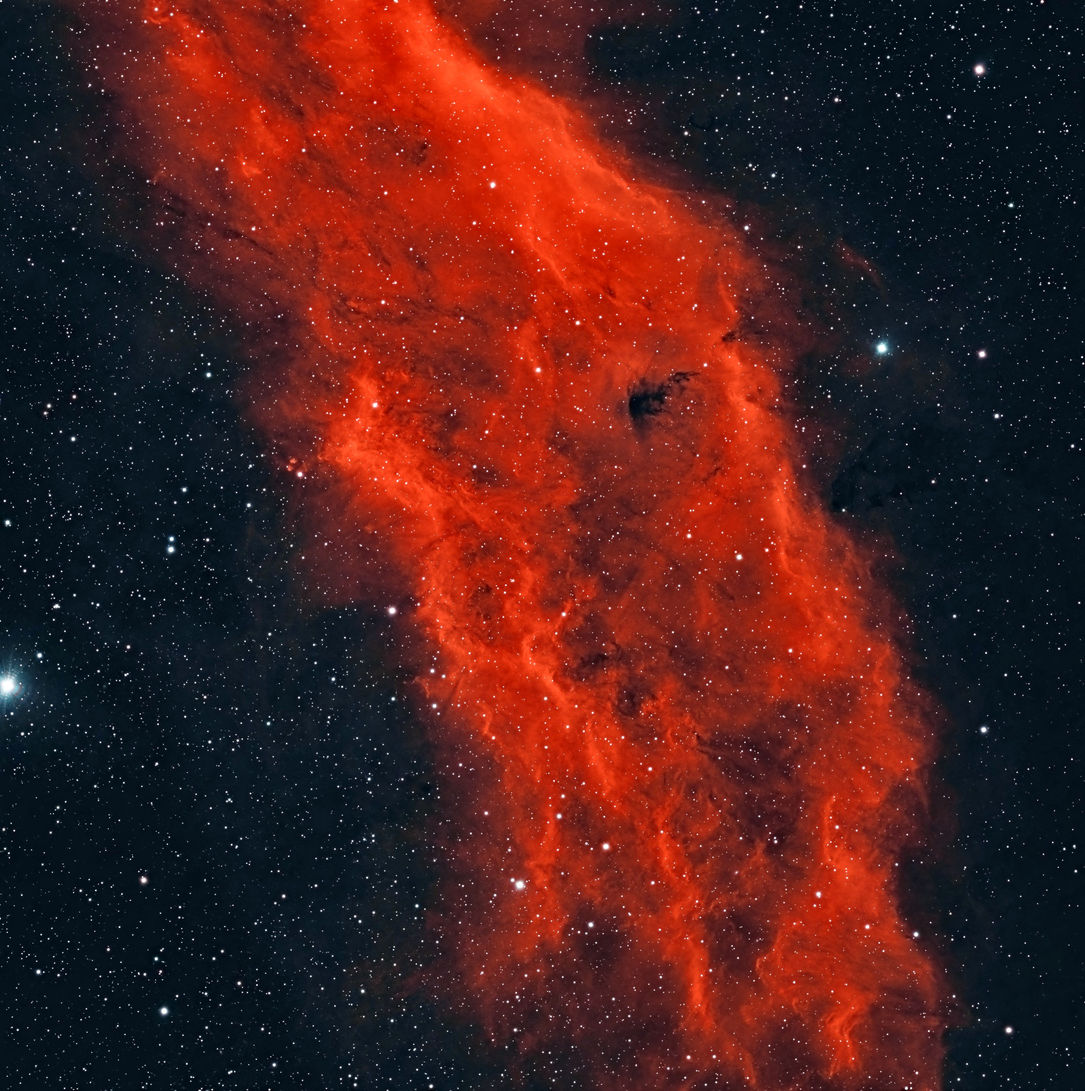
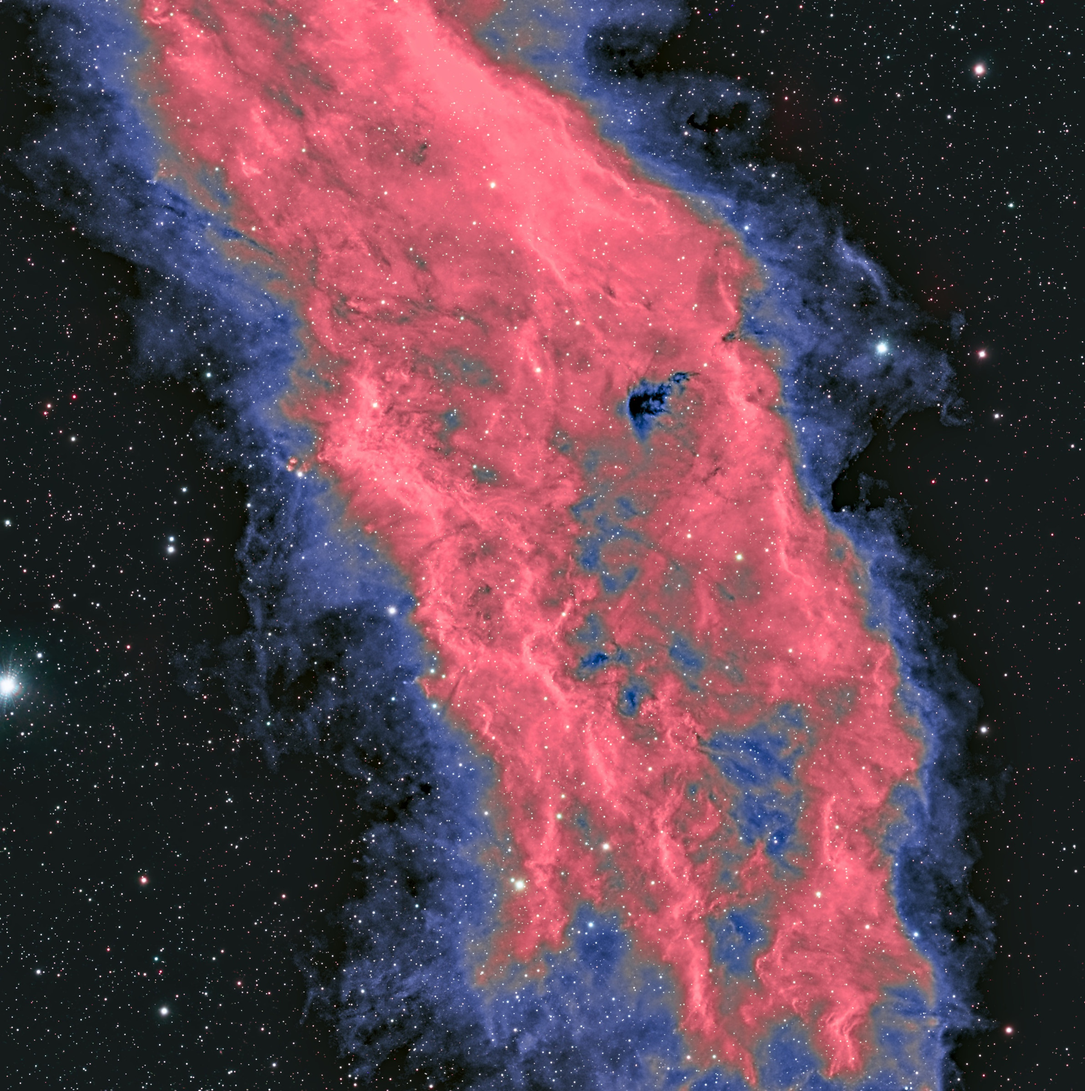
California: user's Pixelmator finish of the false-colour version

diff --git a/california-2024/index.html b/california-2024/index.html
@@ -7,7 +7,7 @@
 <meta name="description" content="A wall of hydrogen glowing red, ionized by the hot runaway star Xi Persei (Menkib) nearby. The whole nebula stretches about 2.5° across the sky, five full Moons end to end, so this frame shows its middle.">
 <meta property="og:title" content="NGC 1499 · California Nebula · Night Sky">
 <meta property="og:description" content="A wall of hydrogen glowing red, ionized by the hot runaway star Xi Persei (Menkib) nearby. The whole nebula stretches about 2.5° across the sky, five full Moons end to end, so this frame shows its middle.">
-<meta property="og:image" content="https://etotman.github.io/astro-gallery/img/california-2024/display.jpg?v=3902d42e"><meta name="twitter:card" content="summary_large_image">
+<meta property="og:image" content="https://etotman.github.io/astro-gallery/img/california-2024/display.jpg?v=59ebced0"><meta name="twitter:card" content="summary_large_image">
 <meta name="theme-color" content="#07080b">
 <link rel="icon" href="../assets/icon.svg" type="image/svg+xml">
 <link rel="stylesheet" href="../assets/style.css?v=bd09f262">
@@ -18,8 +18,8 @@
 <div class="layout">
 <div class="col">
 <figure class="hero">
-  <button class="zoom" type="button" data-full="../img/california-2024/full.jpg?v=047be802" data-w="2752" data-h="2769" aria-label="Open full resolution">
-    <img src="../img/california-2024/display.jpg?v=3902d42e" width="2385" height="2400" alt="NGC 1499 · California Nebula">
+  <button class="zoom" type="button" data-full="../img/california-2024/full.jpg?v=c038bf90" data-w="2752" data-h="2769" aria-label="Open full resolution">
+    <img src="../img/california-2024/display.jpg?v=59ebced0" width="2385" height="2400" alt="NGC 1499 · California Nebula">
   </button>
   <figcaption>Click the image for full resolution · 2752 × 2769 px</figcaption>
 </figure>
@@ -41,8 +41,8 @@
 </tr></tbody>
   </table></div>
 </section>
-  <section class="block"><h2>Processing</h2><p>Stacked 2026-11 from the raw ASIAIR frames: calibrated with a master dark and flat, debayered, every sub plate-solved (ASTAP) for registration, 3-sigma clipped integration; then GraXpert, colour calibration, BlurXTerminator, NoiseXTerminator, stretch, StarXTerminator, saturation and local contrast, stars screened back. Finished with the colour of the Flame + Horsehead edit: cooler sky, lifted midtones, more clarity and saturation.</p></section>
-  <p class="dl"><a href="../img/california-2024/full.jpg?v=047be802" download="california-2024.jpg">Download full resolution (1.6 MB)</a></p>
+  <section class="block"><h2>Processing</h2><p>Stacked 2026-11 from the raw ASIAIR frames: calibrated with a master dark and flat, debayered, every sub plate-solved (ASTAP) for registration, 3-sigma clipped integration; then GraXpert, colour calibration, BlurXTerminator, NoiseXTerminator, stretch, StarXTerminator, saturation and local contrast, stars screened back. Artistic false colour: the hydrogen light is coloured by brightness (bright filaments rose, the fainter outer glow blue), then finished by hand in Pixelmator Pro. The blue is not oxygen; this nebula glows almost entirely in hydrogen.</p></section>
+  <p class="dl"><a href="../img/california-2024/full.jpg?v=c038bf90" download="california-2024.jpg">Download full resolution (1.8 MB)</a></p>
 </main>
 </div>
 <aside class="glance">

diff --git a/index.html b/index.html
@@ -200,7 +200,7 @@
   <span class="cap"><strong>Sh2-142 · Wizard Nebula</strong><em>8.8 h · RASA8</em></span>
 </a>
 <a class="tile" href="california-2024/" style="--r:0.9933;background:#1c1c1c">
-  <img src="img/california-2024/thumb.jpg?v=ba21c22a" width="894" height="900" alt="NGC 1499 · California Nebula" loading="lazy" decoding="async">
+  <img src="img/california-2024/thumb.jpg?v=71484e20" width="894" height="900" alt="NGC 1499 · California Nebula" loading="lazy" decoding="async">
   <span class="cap"><strong>NGC 1499 · California Nebula</strong><em>6.4 h · RASA8</em></span>
 </a>
 <a class="tile" href="wizard-2024/" style="--r:1.0000;background:#1c1c1c">
